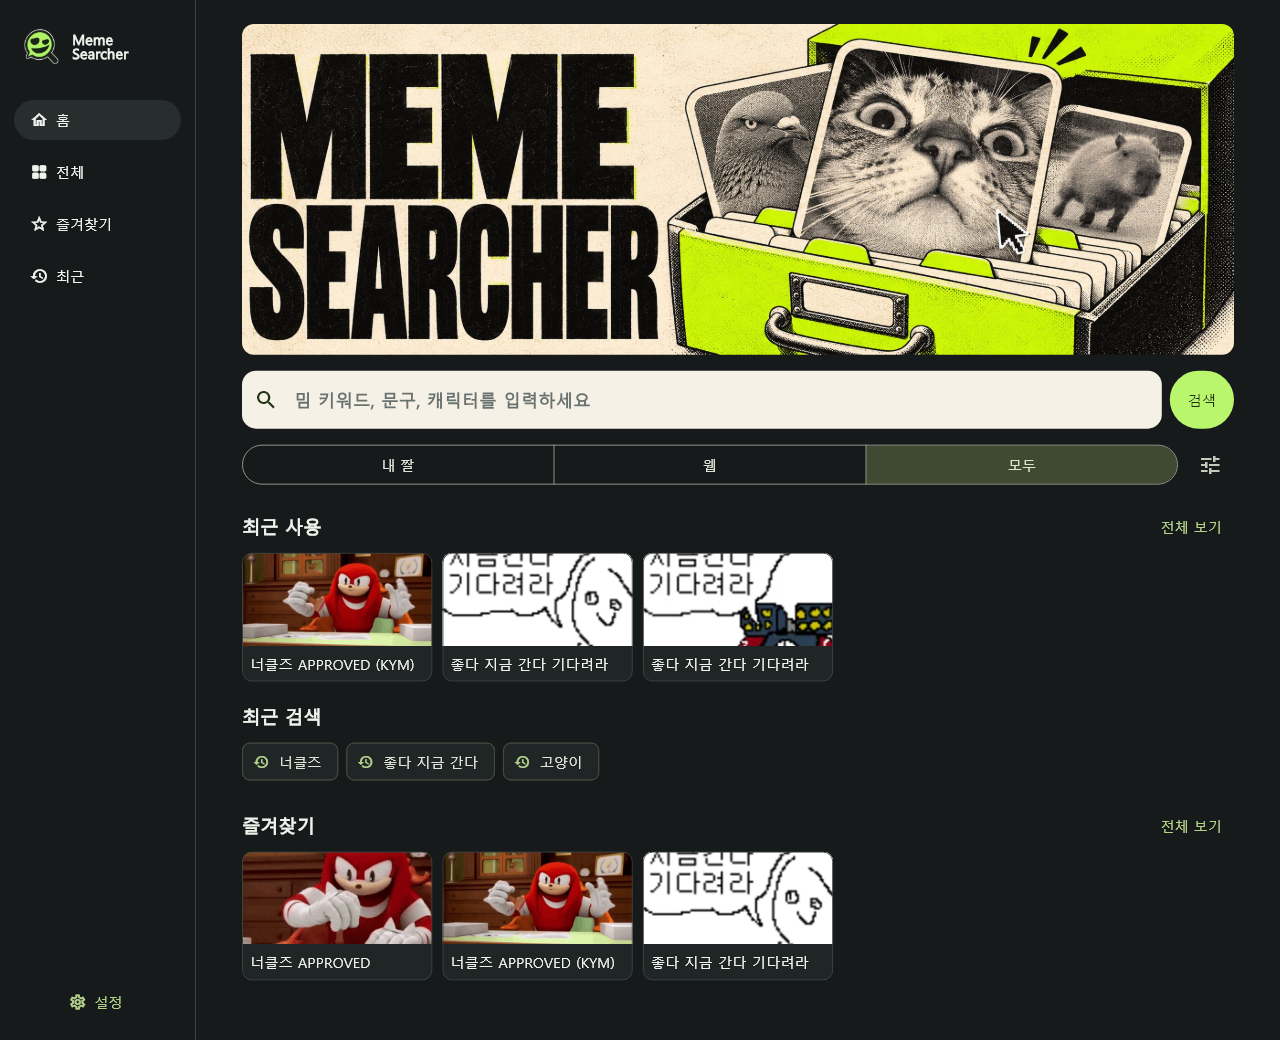
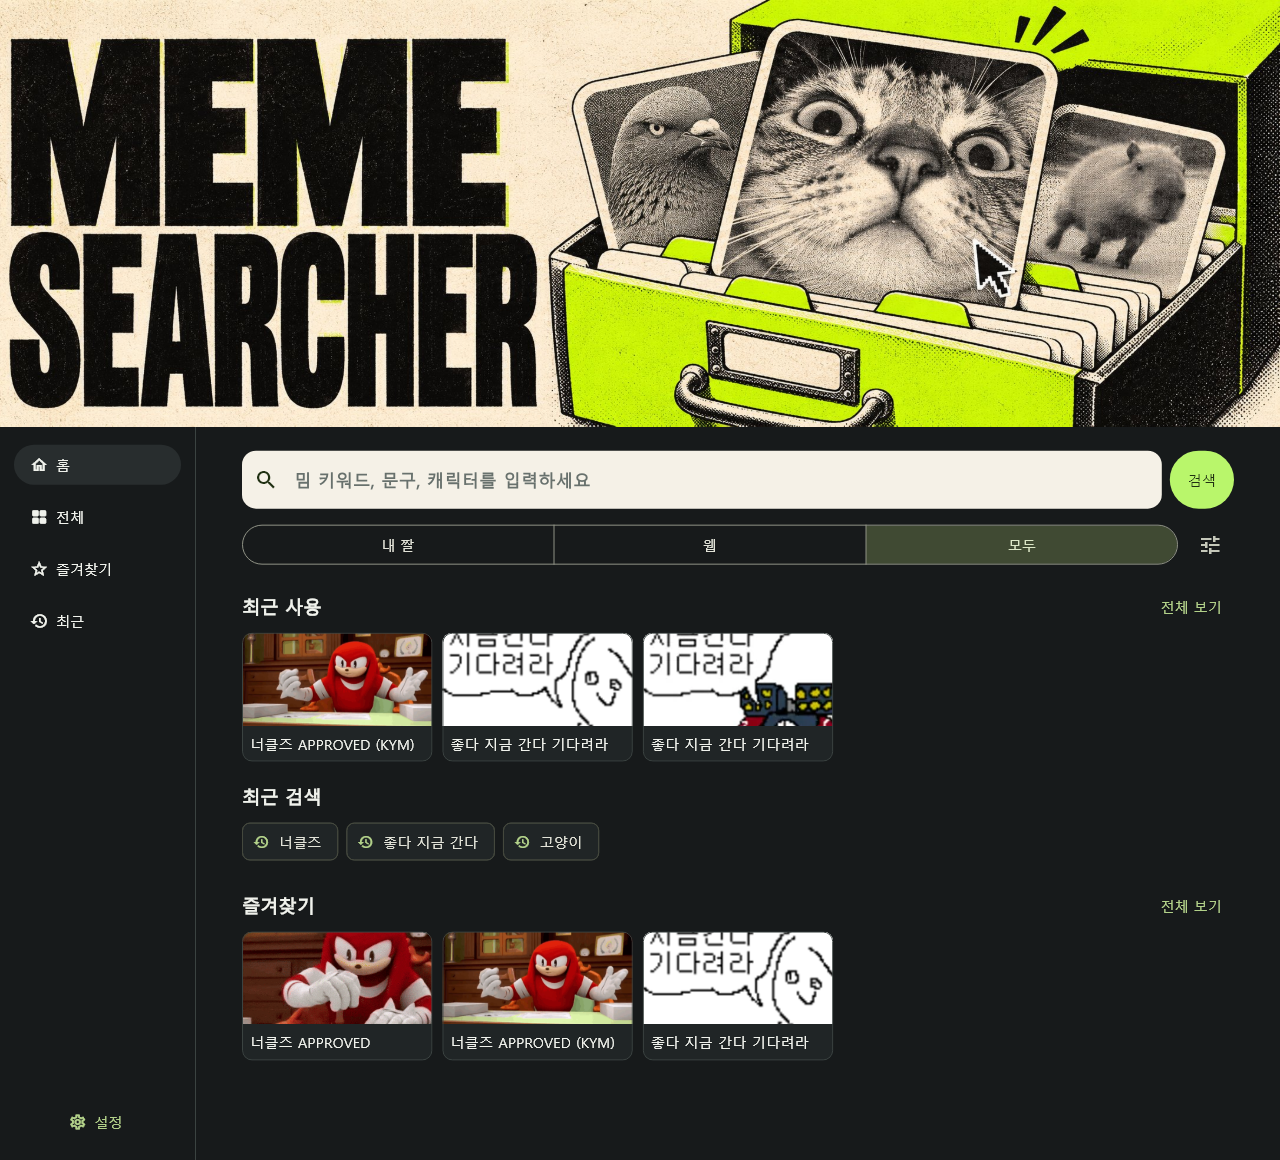
Span the Home cover above navigation and scroll it with the page

diff --git a/lib/ui/screens/search_screen.dart b/lib/ui/screens/search_screen.dart
@@ -313,127 +313,113 @@ class _SearchScreenState extends State<SearchScreen> {
   Widget build(BuildContext context) {
     final wide = MediaQuery.sizeOf(context).width >= 760;
     final home = _navMode == _NavMode.home;
+    final side = wide ? 46.0 : 20.0;
+    final page = Row(
+      children: [
+        if (wide)
+          _SideRail(
+            mode: _navMode,
+            onChanged: _changeNav,
+            onSettings: _openSettings,
+          ),
+        Expanded(
+          child: CustomScrollView(
+            primary: home,
+            controller: home ? null : _scroll,
+            slivers: [
+              SliverPadding(
+                padding: EdgeInsets.fromLTRB(
+                  side,
+                  home ? 24 : 34,
+                  side,
+                  home ? 32 : 14,
+                ),
+                sliver: SliverList.list(
+                  children: [
+                    if (!home || !wide) ...[
+                      _Header(
+                        title: _hasSearched ? '검색 결과' : _navMode.label,
+                        assetCount: home || _loading ? null : _assets.length,
+                        onSettings: _openSettings,
+                        compact: !wide,
+                      ),
+                      SizedBox(height: home ? 12 : 30),
+                    ],
+                    _searchBox(),
+                    const SizedBox(height: 12),
+                    if (home) ...[
+                      Row(
+                        children: [
+                          Expanded(child: _scopeChoice()),
+                          const SizedBox(width: 8),
+                          IconButton(
+                            tooltip: _showSearchOptions
+                                ? '검색 옵션 접기'
+                                : '검색 옵션 열기',
+                            isSelected: _showSearchOptions,
+                            onPressed: () => setState(
+                              () => _showSearchOptions = !_showSearchOptions,
+                            ),
+                            icon: const Icon(Icons.tune),
+                          ),
+                        ],
+                      ),
+                      if (_showSearchOptions) ...[
+                        _similarChoice(),
+                        _formatChoice(),
+                      ],
+                      const SizedBox(height: 20),
+                      if (!_loading ||
+                          _recentAssets.isNotEmpty ||
+                          _recentQueries.isNotEmpty ||
+                          _favoriteAssets.isNotEmpty)
+                        ..._homeSections()
+                      else
+                        const Center(child: CircularProgressIndicator()),
+                    ] else ...[
+                      _scopeChoice(),
+                      if (_hasSearched) _similarChoice(),
+                      const SizedBox(height: 12),
+                      _formatChoice(),
+                      if (_hasSearched) ...[
+                        const SizedBox(height: 12),
+                        _tagFilter(),
+                      ],
+                    ],
+                    if (_error != null) ...[
+                      const SizedBox(height: 10),
+                      _InlineMessage(message: _error!, error: true),
+                    ],
+                    const SizedBox(height: 14),
+                  ],
+                ),
+              ),
+              if (!home) _resultsGrid(wide),
+            ],
+          ),
+        ),
+      ],
+    );
     return Scaffold(
       body: SafeArea(
-        child: Row(
-          children: [
-            if (wide)
-              _SideRail(
-                mode: _navMode,
-                onChanged: _changeNav,
-                onSettings: _openSettings,
-              ),
-            Expanded(
-              child: LayoutBuilder(
-                builder: (context, constraints) {
-                  final inset = wide ? 46.0 : 20.0;
-                  // A 3:1 banner takes up at most 40% of the home viewport.
-                  final homeWidth = (constraints.maxHeight * 1.2).clamp(
-                    0.0,
-                    1080.0,
-                  );
-                  final side = home
-                      ? ((constraints.maxWidth - homeWidth) / 2).clamp(
-                          inset,
-                          double.infinity,
-                        )
-                      : inset;
-                  return CustomScrollView(
-                    controller: _scroll,
-                    slivers: [
-                      SliverPadding(
-                        padding: EdgeInsets.fromLTRB(
-                          side,
-                          home ? 24 : 34,
-                          side,
-                          home ? 32 : 14,
-                        ),
-                        sliver: SliverList.list(
-                          children: [
-                            if (!home || !wide)
-                              _Header(
-                                title: _hasSearched ? '검색 결과' : _navMode.label,
-                                assetCount: home || _loading
-                                    ? null
-                                    : _assets.length,
-                                onSettings: _openSettings,
-                                compact: !wide,
-                              ),
-                            if (home) ...[
-                              if (!wide) const SizedBox(height: 12),
-                              ClipRRect(
-                                borderRadius: BorderRadius.circular(12),
-                                child: AspectRatio(
-                                  aspectRatio: 3,
-                                  child: Image.asset(
-                                    'docs/media/meme-drawer.jpg',
-                                    fit: BoxFit.contain,
-                                    semanticLabel: 'Meme Searcher 짤 서랍',
-                                  ),
-                                ),
-                              ),
-                            ],
-                            SizedBox(height: home ? 16 : 30),
-                            _searchBox(),
-                            const SizedBox(height: 12),
-                            if (home) ...[
-                              Row(
-                                children: [
-                                  Expanded(child: _scopeChoice()),
-                                  const SizedBox(width: 8),
-                                  IconButton(
-                                    tooltip: _showSearchOptions
-                                        ? '검색 옵션 접기'
-                                        : '검색 옵션 열기',
-                                    isSelected: _showSearchOptions,
-                                    onPressed: () => setState(
-                                      () => _showSearchOptions =
-                                          !_showSearchOptions,
-                                    ),
-                                    icon: const Icon(Icons.tune),
-                                  ),
-                                ],
-                              ),
-                              if (_showSearchOptions) ...[
-                                _similarChoice(),
-                                _formatChoice(),
-                              ],
-                              const SizedBox(height: 20),
-                              if (!_loading ||
-                                  _recentAssets.isNotEmpty ||
-                                  _recentQueries.isNotEmpty ||
-                                  _favoriteAssets.isNotEmpty)
-                                ..._homeSections()
-                              else
-                                const Center(
-                                  child: CircularProgressIndicator(),
-                                ),
-                            ] else ...[
-                              _scopeChoice(),
-                              if (_hasSearched) _similarChoice(),
-                              const SizedBox(height: 12),
-                              _formatChoice(),
-                              if (_hasSearched) ...[
-                                const SizedBox(height: 12),
-                                _tagFilter(),
-                              ],
-                            ],
-                            if (_error != null) ...[
-                              const SizedBox(height: 10),
-                              _InlineMessage(message: _error!, error: true),
-                            ],
-                            const SizedBox(height: 14),
-                          ],
-                        ),
+        child: home
+            ? NestedScrollView(
+                controller: _scroll,
+                headerSliverBuilder: (context, innerBoxIsScrolled) => [
+                  SliverToBoxAdapter(
+                    child: AspectRatio(
+                      aspectRatio: 3,
+                      child: Image.asset(
+                        'docs/media/meme-drawer.jpg',
+                        fit: BoxFit.contain,
+                        semanticLabel: 'Meme Searcher 짤 서랍',
                       ),
-                      if (!home) _resultsGrid(wide),
-                    ],
-                  );
-                },
-              ),
-            ),
-          ],
-        ),
+                    ),
+                  ),
+                ],
+                body: page,
+              )
+            : page,
       ),
       bottomNavigationBar: wide
           ? null
@@ -875,43 +861,55 @@ class _SideRail extends StatelessWidget {
     decoration: const BoxDecoration(
       border: Border(right: BorderSide(color: MemeTheme.border)),
     ),
-    child: Padding(
-      padding: const EdgeInsets.all(14),
-      child: Column(
-        crossAxisAlignment: CrossAxisAlignment.stretch,
-        children: [
-          const Padding(
-            padding: EdgeInsets.fromLTRB(8, 12, 8, 30),
-            child: Row(
+    child: CustomScrollView(
+      primary: false,
+      slivers: [
+        SliverFillRemaining(
+          hasScrollBody: false,
+          child: Padding(
+            padding: const EdgeInsets.all(14),
+            child: Column(
+              crossAxisAlignment: CrossAxisAlignment.stretch,
               children: [
-                Image(
-                  image: AssetImage('assets/app-icon.png'),
-                  width: 40,
-                  height: 40,
-                  excludeFromSemantics: true,
-                ),
-                SizedBox(width: 10),
-                Expanded(
-                  child: Text(
-                    'Meme\nSearcher',
-                    style: TextStyle(fontWeight: FontWeight.w800, height: 1),
+                if (mode != _NavMode.home)
+                  const Padding(
+                    padding: EdgeInsets.fromLTRB(8, 12, 8, 30),
+                    child: Row(
+                      children: [
+                        Image(
+                          image: AssetImage('assets/app-icon.png'),
+                          width: 40,
+                          height: 40,
+                          excludeFromSemantics: true,
+                        ),
+                        SizedBox(width: 10),
+                        Expanded(
+                          child: Text(
+                            'Meme\nSearcher',
+                            style: TextStyle(
+                              fontWeight: FontWeight.w800,
+                              height: 1,
+                            ),
+                          ),
+                        ),
+                      ],
+                    ),
                   ),
+                _railButton(Icons.home_outlined, '홈', _NavMode.home),
+                _railButton(Icons.grid_view_rounded, '전체', _NavMode.all),
+                _railButton(Icons.star_border, '즐겨찾기', _NavMode.favorites),
+                _railButton(Icons.history, '최근', _NavMode.recent),
+                const Spacer(),
+                TextButton.icon(
+                  onPressed: onSettings,
+                  icon: const Icon(Icons.settings_outlined),
+                  label: const Text('설정'),
                 ),
               ],
             ),
           ),
-          _railButton(Icons.home_outlined, '홈', _NavMode.home),
-          _railButton(Icons.grid_view_rounded, '전체', _NavMode.all),
-          _railButton(Icons.star_border, '즐겨찾기', _NavMode.favorites),
-          _railButton(Icons.history, '최근', _NavMode.recent),
-          const Spacer(),
-          TextButton.icon(
-            onPressed: onSettings,
-            icon: const Icon(Icons.settings_outlined),
-            label: const Text('설정'),
-          ),
-        ],
-      ),
+        ),
+      ],
     ),
   );
 

diff --git a/test/ui/search_screen_test.dart b/test/ui/search_screen_test.dart
@@ -212,15 +212,16 @@ void main() {
       await openApp(tester, services);
       final banner = find.bySemanticsLabel('Meme Searcher 짤 서랍');
       expect(banner, findsOneWidget);
+      final bounds = tester.getRect(banner);
+      expect(bounds.topLeft, Offset.zero);
+      expect(bounds.width, tester.getSize(find.byType(Scaffold)).width);
+      expect(
+        tester.getTopLeft(find.byKey(const ValueKey('nav-home'))).dy,
+        greaterThanOrEqualTo(bounds.bottom),
+      );
       expect(find.text('최근 사용'), findsOneWidget);
       expect(find.text('최근 검색'), findsOneWidget);
-      expect(
-        find.descendant(
-          of: find.byType(CustomScrollView),
-          matching: find.text('즐겨찾기'),
-        ),
-        findsOneWidget,
-      );
+      expect(find.text('검색').hitTestable(), findsOneWidget);
       expect(services.searches, 0);
 
       await searchFromHome(tester, 'default scope');
@@ -289,6 +290,12 @@ void main() {
       ..queries = ['repeat query'];
     await openApp(tester, services);
     expect(find.textContaining('Recent '), findsNWidgets(5));
+    final viewport = tester.getRect(find.byType(Scaffold));
+    await tester.dragFrom(
+      viewport.bottomRight - const Offset(100, 70),
+      Offset(0, -viewport.height / 2),
+    );
+    await tester.pumpAndSettle();
     expect(find.textContaining('Favorite '), findsNWidgets(5));
     await tester.tap(find.text('repeat query'));
     await tester.pumpAndSettle();

diff --git a/CHANGELOG.md b/CHANGELOG.md
@@ -1,5 +1,9 @@
 # Changelog
 
+## 1.2.3 — 2026-11-25
+
+- 홈 배너가 왼쪽 메뉴 위까지 앱 상단 전체 너비를 채우며, 목록을 스크롤하면 함께 올라갑니다.
+
 ## 1.2.2 — 2026-11-25
 
 - 홈 검색창 위에 제품 소개에 사용한 ‘짤 서랍’ 배너를 추가했습니다.
